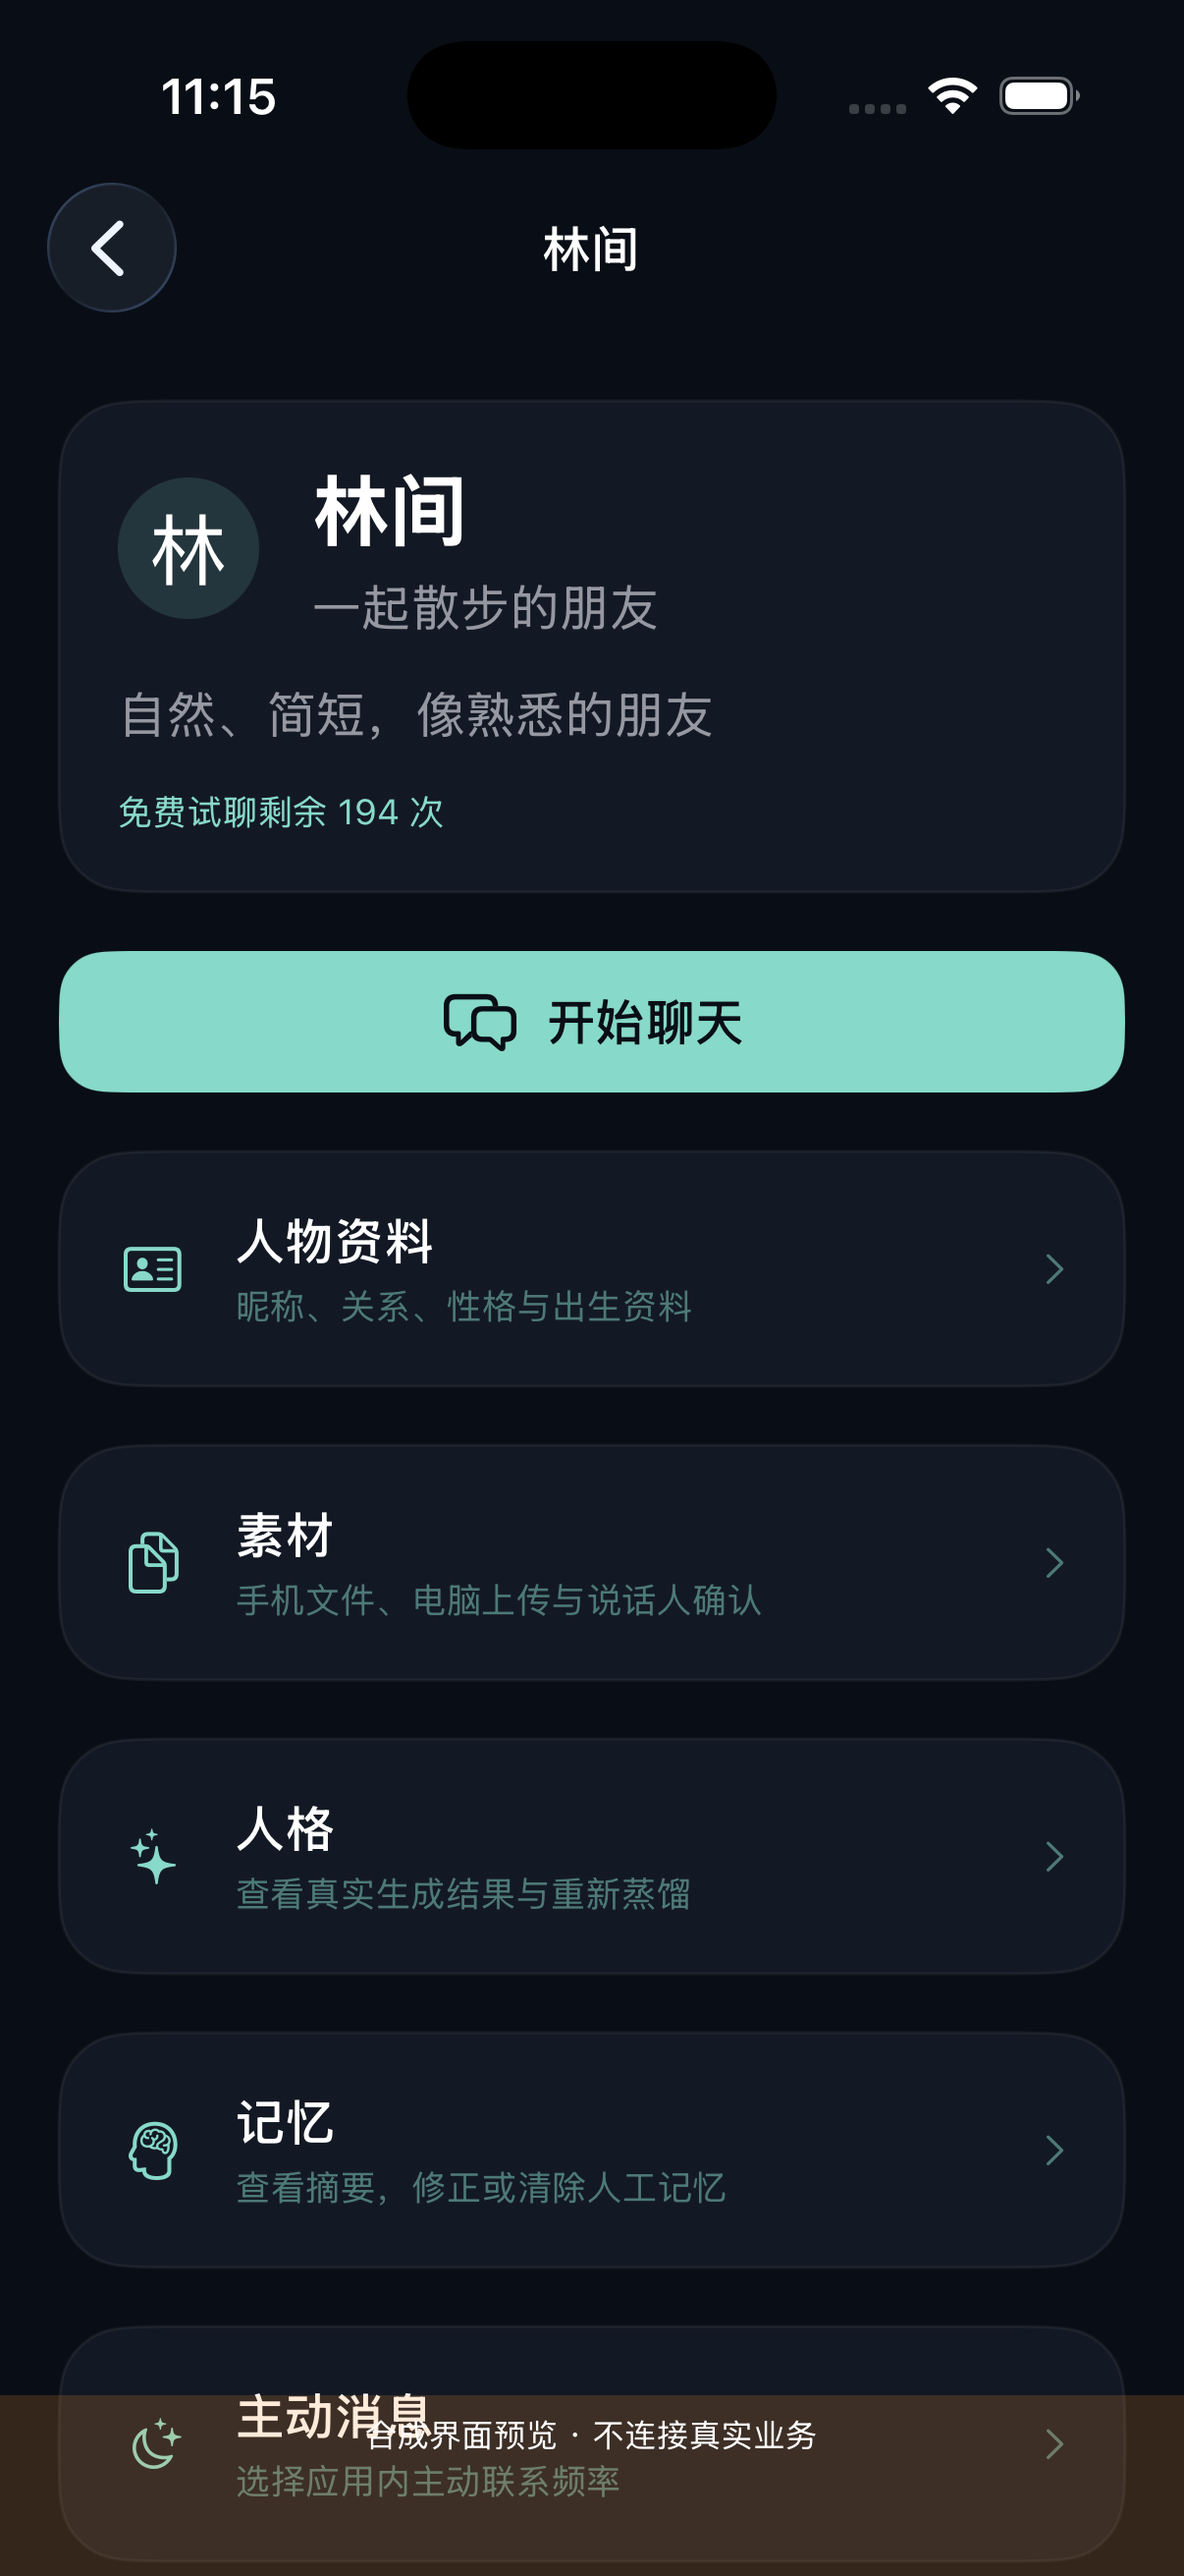
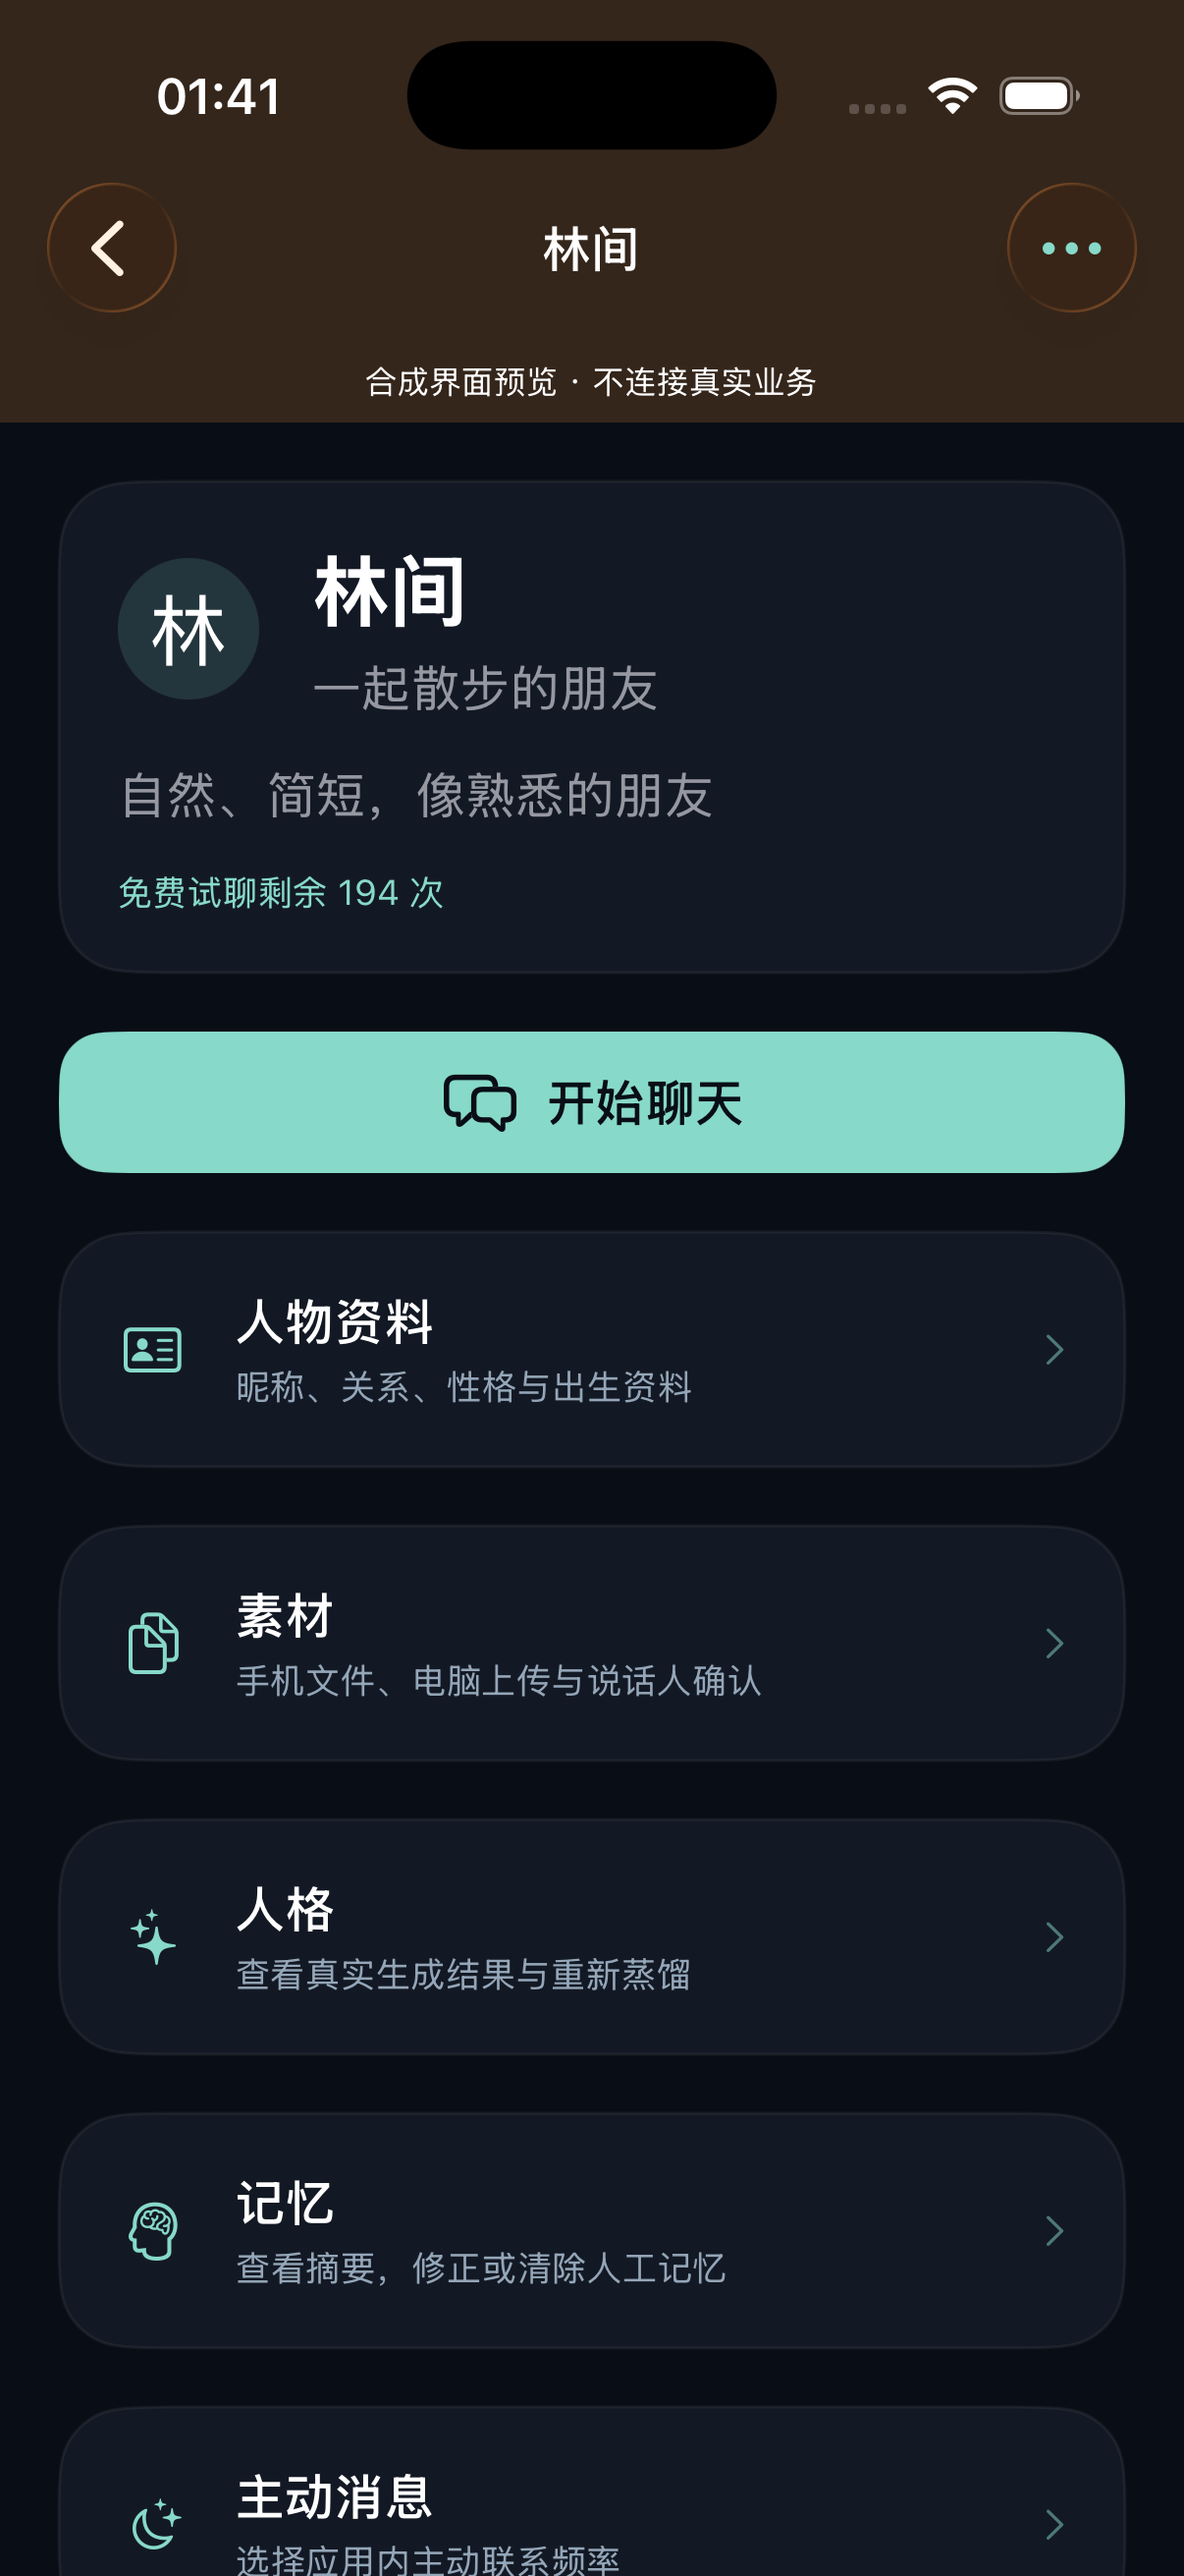
Show verified archive status and versioned synthetic UI comparisons

diff --git a/docs/progress.md b/docs/progress.md
@@ -1,15 +1,15 @@
 # 当前进度
-更新2026-10-29。1.0.0/build17开发候选，未正式发布。
+更新2026-10-30。1.0.0，源码/模拟器构建20、iPhone实际18，未正式发布。
 
 | 范围 | 实际结果 | 限制 |
 |---|---|---|
-| 主要界面 | 深色首页/角色/创建/素材/画像/聊天/记忆/设置代码完成；较早build17运行并截图 | 最终修正未再运行；小屏/大字/VoiceOver全量待验 |
-| 本地测试 | Python104项、Node8项；Swift会话及扫码用例通过，Debug/Release全源typecheck通过 | 不是完整签名归档 |
-| 真实模型 | 隔离HTTP15项检查，画像1次/聊天1次，200→199、两气泡、原请求恢复 | 非Apple/微信/手机验收 |
-| 历史共享 | 双方身份绑定、共享测试资料双向回读已有证据 | 当前服务不可达；完整手机共享未通过 |
-| 真机 | 最后实际安装记录build16 | build17未安装，不能借旧结果 |
-| 机器人/主动消息 | 适配和停用状态存在，worker默认关闭 | 当天真实收发/调度未验 |
-| 服务 | 稳定主机运行/备份/反代材料及本地检查已准备 | 既有资源登录需本人；未部署生产 |
-| App Store | 已建立实际产品记录，准备提交，手动发布 | 无构建上传、内部TestFlight、审核提交 |
+| 页面 | 18发现导航覆盖，19重跑首页/详情/资料键盘/素材；20增加导入重读、只读视觉预览和主动状态说明 | 20全页及小屏/大字/VoiceOver待验；截图不能代替业务 |
+| 归档 | 正常Xcode归档18、签名和Apple官方Validate成功，CLI写入失败有日志定层 | 不是最终20归档、上传、TestFlight或审核 |
+| iPhone | 设备管理实际回读已装18 | 最终版本安装/完整导入聊天记忆闭环待验 |
+| 模型 | 10/29独立受保护loopback真实画像/聊天，200→199、两气泡同请求恢复 | 今日无新模型调用，非公网App/微信/手机验收 |
+| 后端 | 复用已有已付主机，隔离账户/目录、备份、加密传输及依赖安装任务已执行 | 安装结果待回读，持久API与App实际路径未通过 |
+| 共享 | 历史身份绑定与双向资料证据保留，协议沿用 | 当前完整手机聊天/记忆/删除共享未通过，不重新绑定 |
+| 电脑/机器人 | 素材上传和真实通道状态适配存在，停用如实显示 | 当前光学扫码和机器人收发未验，后台默认关闭 |
+| 商店 | 既有产品记录保留准备提交，审核后手动发布 | 无上传/内部TF/审核，核心验收与真实隐私材料仍有门槛 |
 
-原资料/绑定/额度保护核对通过。未新增支付或迁移原账号。商店记录、Git推送与测试通过不能单独算发布候选完成。
+没有新增支付、重置原余额或合并既有账号。归档通过是一个阶段，不能单独宣布产品交付。

diff --git a/README.md b/README.md
@@ -1,16 +1,18 @@
 # Relic · AI 角色产品工程记录
 Relic 基于用户授权的人物资料与素材生成 AI 角色。核心产品闭源，这个独立作品集展示产品决策、架构、工程案例和有范围的验证结果。
 
-**2026-10-29：1.0.0 / build17 开发候选，尚未正式发布，尚未达到提交审核门槛。** 本轮完成主要页面重构和真实模型隔离业务验证；稳定生产托管、最新真机回归、完整跨端及机器人验收仍有缺口。不能将 App Store 记录建立或历史共享成功解释成当前服务可用。
+**2026-10-30：1.0.0 / 源码与模拟器构建 build20，iPhone 实际安装 build18。尚未达到完整测试分发或审核门槛。** 正常 Xcode 签名归档18与 Apple 官方 Validate App 已通过；没有构建上传、内部 TestFlight 或审核提交。稳定主机的隔离部署已推进到加密传输及安装任务，业务 HTTPS 仍未验通。
 
 用户流程：导入 TXT / CSV / JSON 或授权电脑上传 → 预览与说话人确认 → 人物资料确认 → MiniMax 生成画像 → 聊天与记忆。这里的“蒸馏”是画像和上下文提取，不是训练模型权重。AI 角色不是真实自然人本人。
 
 ## 实际运行界面
-下图为 iOS Simulator 运行中的 Debug 合成资料预览，原始截图，**不是私人聊天、真实业务验收或商店截图**。这是较早 build17 视觉检查；底部预览横幅遮挡、详情副标题对比度和聊天标题已在代码修正，最终再次运行待完成。没有伪造改前图。
+下图为实际 iOS Simulator 运行的 Debug 合成资料原图，**不是私人聊天、真实业务验收或商店截图**。首页、详情、素材为 build19；build20 只取得新构建产物，最终全页复验待完成。
 
-| 首页 | 角色详情 | 聊天 |
+| 首页19 | 角色详情19 | 素材19 |
 |---|---|---|
-| ![合成首页](assets/ui/after-home.png) | ![合成角色详情](assets/ui/after-detail.png) | ![合成聊天](assets/ui/after-chat.png) |
+| ![合成首页](assets/ui/after-home.png) | ![合成角色详情](assets/ui/after-detail.png) | ![合成素材](assets/ui/materials-build19.png) |
+
+[真实改前详情18](assets/ui/before-detail-build18.png) → [修复后详情19](assets/ui/after-detail.png)：运行发现预览提示压住导航标题，调整后重新运行并核对。另有[资料输入键盘19](assets/ui/profile-keyboard-build19.png)与[较早聊天17](assets/ui/after-chat.png)，不混作最终版本验收。
 
 - [产品流程](docs/product.md) · [架构与数据归属](docs/architecture.md)
 - [工程案例](docs/engineering-case-studies.md) · [验证结果](docs/validation.md)

diff --git a/docs/validation.md b/docs/validation.md
@@ -5,6 +5,10 @@
 
 原数据保护检查：26张原业务表与一致性快照相同；仅模型调用账本增加本轮两次尝试。没有调整原余额或重新绑定。
 
-模拟器实际截图3张，全部合成资料、带明确标识。截图后的视觉修正尚未再次运行。未获得改前图，不伪造前后对比。命令行归档因写入权限失败；没有新IPA或最新真机结果。
+2026-10-30新增：产品契约与可选主动状态9项、首次启用隔离/回滚6项通过，全部使用临时合成数据，没有新模型调用。后者验证路由冲突、已有服务/悬空链接、非隔离账号拒绝、真实N额度保留、身份归属变化和启动失败恢复反代。
 
-当前旧服务不通，尚未验证稳定托管与最新真实微信保护读取。历史双向资料和真机结果按原日期保留，不能据此说今天完整共享可用。公开不含原请求编号、内部入口、原始日志、私人聊天或认证凭证；没有公开演示账号。
+实际运行发现18导航覆盖后，19重新运行首页/详情/资料及键盘/素材。公开原始图片逐张查看并绑定哈希，真实改前18与改后19分别标版本。20模拟器构建日志成功、新App及签名通过，最终全页/真机复验仍缺，不用旧截图代替。
+
+CLI归档在编译/签名前输出元数据写入被执行环境拒绝；新可写目录探针通过，不能误诊证书。采用正常XcodeGUI归档18并通过Apple官方Validate。iPhone实际装18；没有构建上传或内部TestFlight。
+
+现有主机原网站内容校验不变，隔离部署/加密传输有真实任务回执，但业务服务仍未验证。健康、部署、真实App、微信共享及手机完整验收分开报告。公开不含原请求编号、内部入口、原始日志、私人数据或凭证，也无公开演示账号。

diff --git a/AGENTS.md b/AGENTS.md
@@ -1,5 +1,5 @@
 # 公开资料维护
-先读docs/progress.md与docs/validation.md。只维护当前白名单11份文档及已明确授权、逐张查看、精确哈希核对的3张合成UI截图。真实代码摘录仍须逐文件批准；不要公开核心代码、私有历史、日志、凭证、内部部署/账号标识或私人内容。
+先读docs/progress.md与docs/validation.md。只维护当前白名单11份文档及已明确授权、逐张查看、精确哈希核对的6张合成UI截图。真实代码摘录仍须逐文件批准；不要公开核心代码、私有历史、日志、凭证、内部部署/账号标识或私人内容。
 2026-10-29用户允许产品化、在既有资源预算内更新服务及满足门槛后审核，但公开仓库本身不能触发自动部署或绕过门槛。不要启用Actions/Pages或新增付费功能。
-当前截图是运行中的合成预览，不是业务验收。存在已知视觉问题且最终重跑待完成，必须说明。不要造改前图、生产可用性、CI徽章或把规划当完成。
+当前截图是运行中的合成预览，不是业务验收。改前18/改后19/较早聊天17分别标记；20最终全页重跑待完成，必须说明。不要造改前图、生产可用性、CI徽章或把规划当完成。
 按本地、真实模型HTTP、服务、微信中转、模拟器、手机真机和审核分别记录。此仓库不是完整开发入口。

diff --git a/docs/engineering-case-studies.md b/docs/engineering-case-studies.md
@@ -11,5 +11,11 @@
 ## 导入先确认
 格式解析与模型生成分开。预览和说话人确认后再确认人物，按目标说话人的有效内容进行长度校验，不用其他人的长台词凑数。本轮真实资料使用有意义的195字目标内容。
 
-## 视觉检查有证据边界
-实际运行并截图发现对比度、预览横幅遮挡和标题问题后改代码。Mac锁屏导致最终再次运行中断，公开截图明确为较早版本，不用设计稿或新文案冒充复验。
+## 视觉检查有版本证据
+18实际运行发现预览横幅压导航标题；将提示放进导航目的地，19重跑并保存原始前后截图，另检查资料输入键盘。20构建后仍需最终全页核验，不能用19替代。合成数据清楚标识，不冒充模型效果。
+
+## 归档与运行环境分层
+CLI在编译前写元数据被限制，普通目录探针成功；改用正常Xcode归档和平台Validate验证签名路径。准确区分归档、验证、上传与可分发，避免把工具失败归咎于证书或要求重复信任。
+
+## 既有服务隔离与失败恢复
+复用已有资源，不覆盖原网站或扩大费用。独立用户、受限传输、加密运行配置和持久目录；首次启用先验证路由空闲、授权隔离角色及原权益，失败停新服务并恢复反代。真实部署还在推进，材料和单元测试不代替服务可用性。
